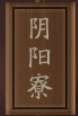
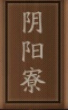
perf[RyouToppa]: 本机雷电模拟器识别不出寮突破

diff --git a/tasks/RyouToppa/assets.py b/tasks/RyouToppa/assets.py
@@ -117,7 +117,7 @@ class RyouToppaAssets:
 
 	# Image Rule Assets
 	# 寮突 
-	I_RYOU_TOPPA = RuleImage(roi_front=(1191,352,78,116), roi_back=(1191,352,78,116), threshold=0.8, method="Template matching", file="./tasks/RyouToppa/res/res_ryou_toppa.png")
+	I_RYOU_TOPPA = RuleImage(roi_front=(1197,358,68,110), roi_back=(1191,350,78,125), threshold=0.8, method="Template matching", file="./tasks/RyouToppa/res/res_ryou_toppa.png")
 	# 寮突选择阴阳寮按钮 
 	I_SELECT_RYOU_BUTTON = RuleImage(roi_front=(560,577,156,46), roi_back=(560,577,156,46), threshold=0.8, method="Template matching", file="./tasks/RyouToppa/res/res_select_ryou_button.png")
 	# 开始寮突按钮 
